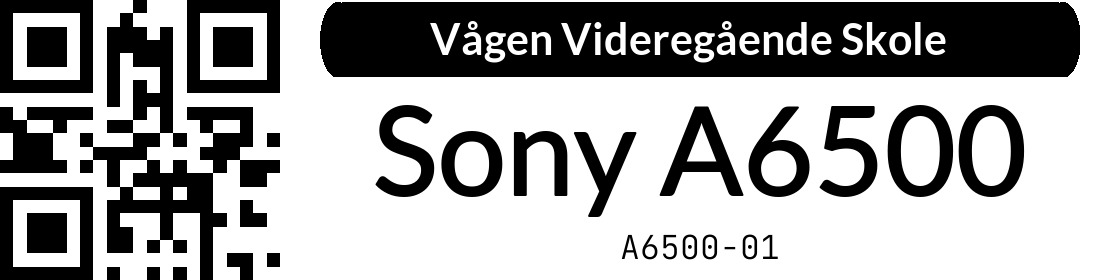
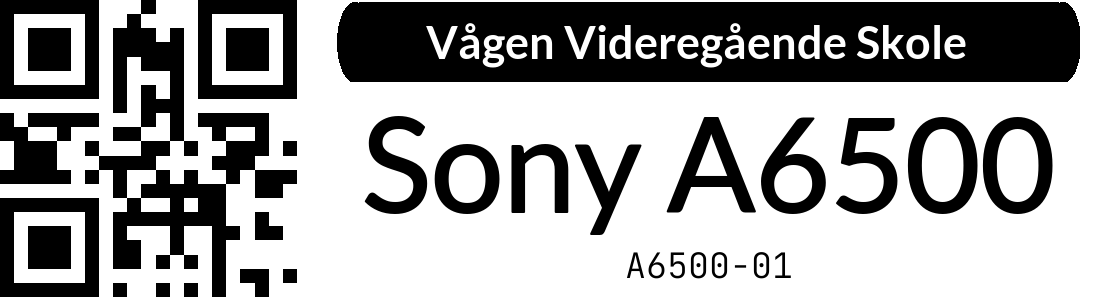
Min/max label size to physical paper bleed ratio

diff --git a/src/LabelGenerator.py b/src/LabelGenerator.py
@@ -7,7 +7,7 @@ from dataclasses import dataclass
 from enum import Enum, auto
 
 lx = int(1132 * .99)
-ly = int(330 * .85)
+ly = int(330 * .90)
 padding = 20
 
 
@@ -71,8 +71,8 @@ def _qr_label(content: InventoryItem) -> PIL.Image:
         font_id = font_id.font_variant(size=font_id.size - 1)
 
     # Draw the text
-    draw_text(content.item_name, ly / 4, font_name, stroke_width=1)
-    draw_text(content.id, ly / 2 + 30, font_id)
+    draw_text(content.item_name, ly / 4 + 5, font_name, stroke_width=1)
+    draw_text(content.id, ly / 2 + 35, font_id)
 
     # Construct the label
     label = PIL.Image.new("RGB", (lx, ly), color="white")
@@ -100,7 +100,7 @@ def _barcode_label(content: InventoryItem) -> PIL.Image:
     # Construct the label
     label = PIL.Image.new("RGB", (lx, ly), color="white")
     # Add the barcode in the center
-    label.paste(image, (int((lx - image.width) / 2), int((ly - image.height) / 2) - 12))
+    label.paste(image, (int((lx - image.width) / 2), int((ly - image.height) / 2) - 17))
     # Add the text below the barcode
     font_id = ImageFont.truetype("JetBrainsMono-Light.ttf", size=int(ly/7.647))
 
@@ -108,7 +108,7 @@ def _barcode_label(content: InventoryItem) -> PIL.Image:
     while (id_draw.textbbox((0, 0), content.id, font=font_id, align="left", anchor="mm")[2] * 2) > lx - padding:
         font_id = font_id.font_variant(size=font_id.size - 1)
     id_draw.text(
-        (lx / 2, ly - 28),
+        (lx / 2, ly - 32),
         content.id,
         font=font_id,
         fill="black",

diff --git a/src/app.py b/src/app.py
@@ -14,13 +14,6 @@ CORS(app)
 
 fqdn = ""  # If empty, all connections are allowed
 
-
-try:
-    dev = usb.core.find(idVendor=0x04f9, idProduct=0x209c)
-    dev.reset()
-except AttributeError:
-    raise RuntimeError("Printer not found")
-
 # brother-ql config
 label_size = (1132, 330)
 #ql_backend = 'linux_kernel'
@@ -32,7 +25,7 @@ ql_label = "17x54"
 
 # The offset of the label on the label sheet, might need some manual tweaking to get it right
 x_offset = 15
-y_offset = 12
+y_offset = -4
 
 
 def make_label(img: PIL.Image) -> PIL.Image:
@@ -180,6 +173,12 @@ def preview_raw():
 
 @app.route('/print', methods=['POST'])
 def print_label():
+    try:
+        dev = usb.core.find(idVendor=0x04f9, idProduct=0x209c)
+        dev.reset()
+    except Exception:
+        return flask.jsonify({'error': 'Failed to print label'}), 400
+
     if fqdn and fqdn != flask.request.headers.get('Host'):
         return flask.jsonify({
             'error': 'Not allowed',
